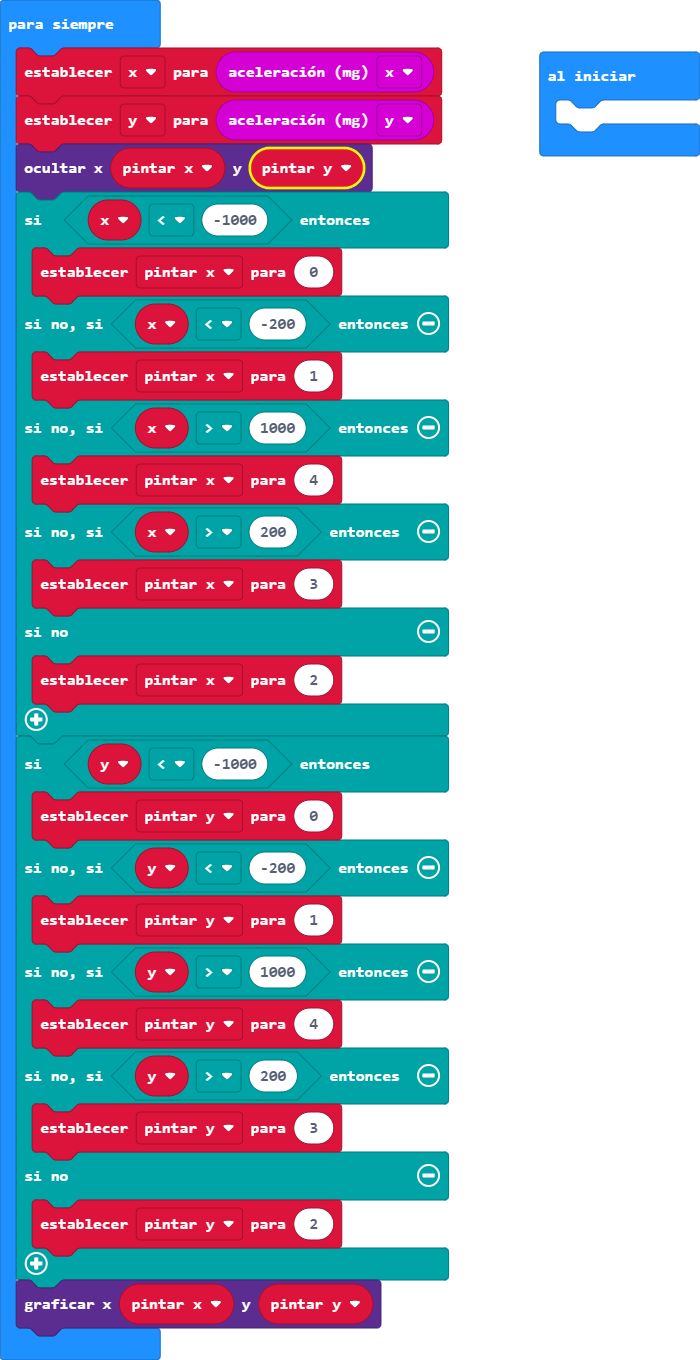
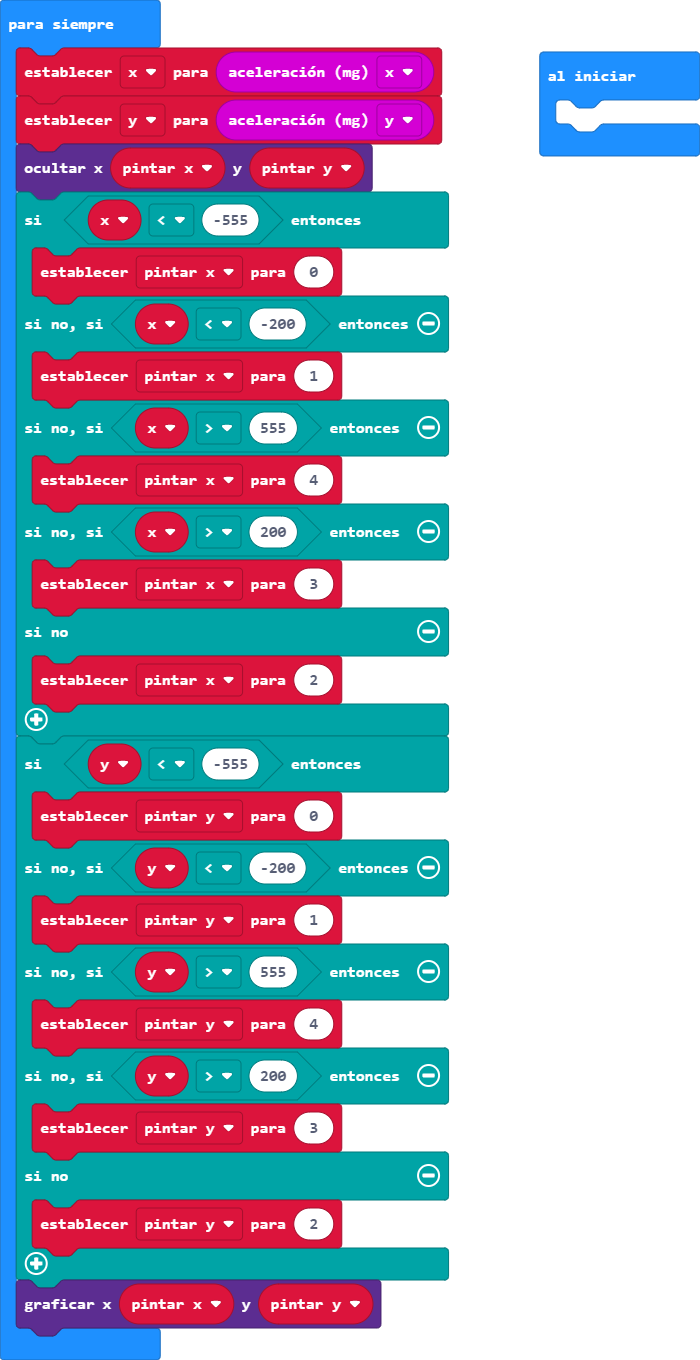
Actualizar main.blocks, main.ts

diff --git a/main.ts b/main.ts
@@ -6,22 +6,22 @@ basic.forever(function () {
     x = input.acceleration(Dimension.X)
     y = input.acceleration(Dimension.Y)
     led.unplot(pintar_x, pintar_y)
-    if (x < -1000) {
+    if (x < -555) {
         pintar_x = 0
     } else if (x < -200) {
         pintar_x = 1
-    } else if (x > 1000) {
+    } else if (x > 555) {
         pintar_x = 4
     } else if (x > 200) {
         pintar_x = 3
     } else {
         pintar_x = 2
     }
-    if (y < -1000) {
+    if (y < -555) {
         pintar_y = 0
     } else if (y < -200) {
         pintar_y = 1
-    } else if (y > 1000) {
+    } else if (y > 555) {
         pintar_y = 4
     } else if (y > 200) {
         pintar_y = 3
